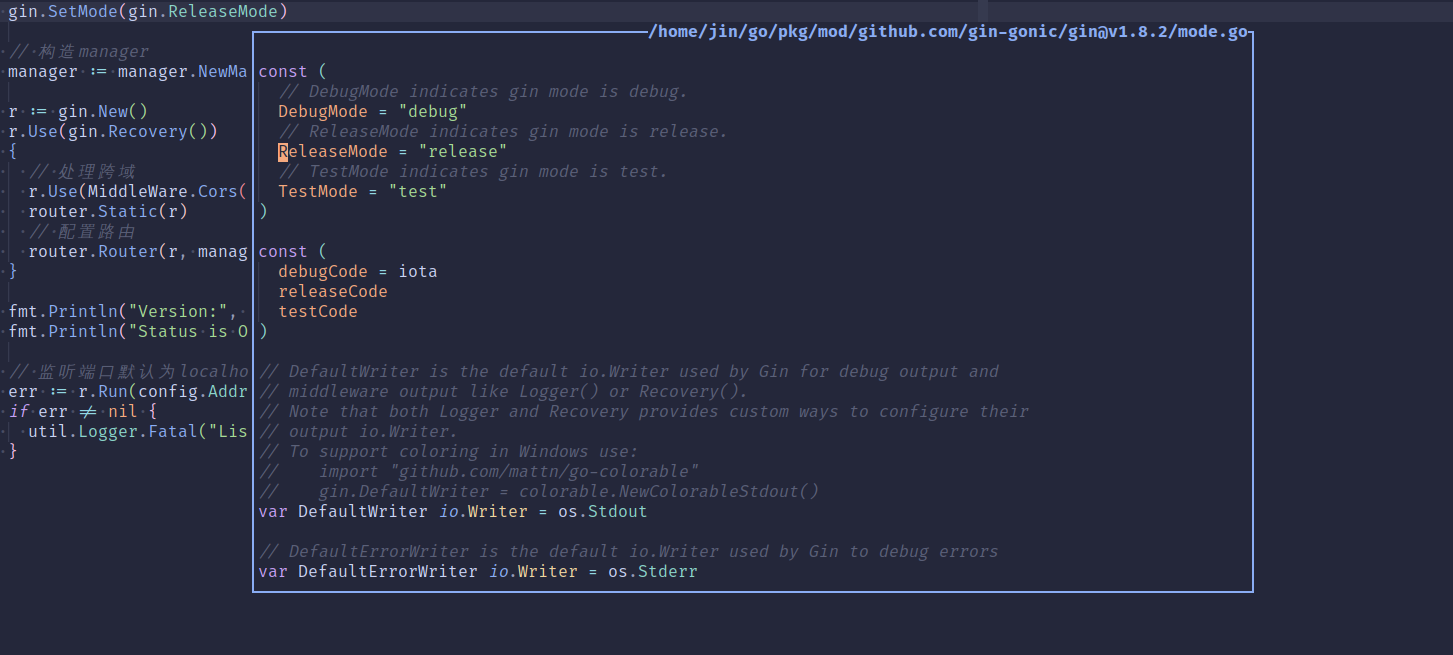
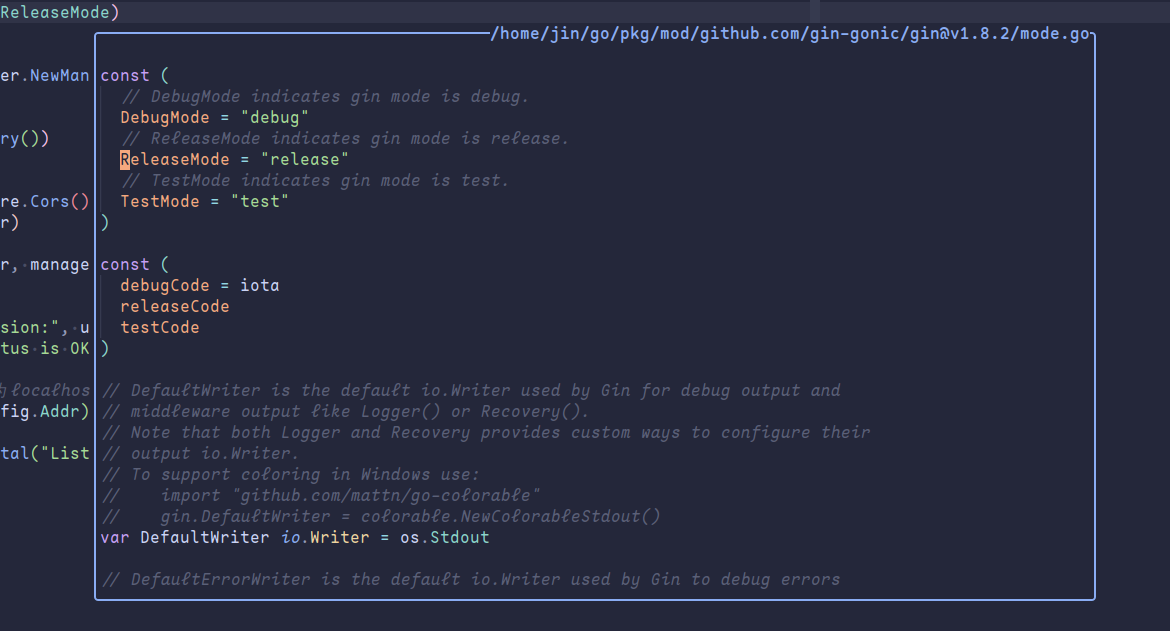
Feature: window border now uses "rounded"
update img

update img

update readme

Changed region(s): [[0.0, 0.0602, 0.9231, 0.9635], [0.0, 0.0, 0.9538, 0.0602], [0.6154, 0.8431, 0.6769, 0.8732]]

diff --git a/README.md b/README.md
@@ -148,3 +148,7 @@ require("LspUI").setup({
 
 - Define(`Defination` and `Type Definitions`)
 - Finder(`References` and `implementations`)
+
+## 🔮Thanks
+
+- [lspsaga.nvim](https://github.com/glepnir/lspsaga.nvim) - inspiration
